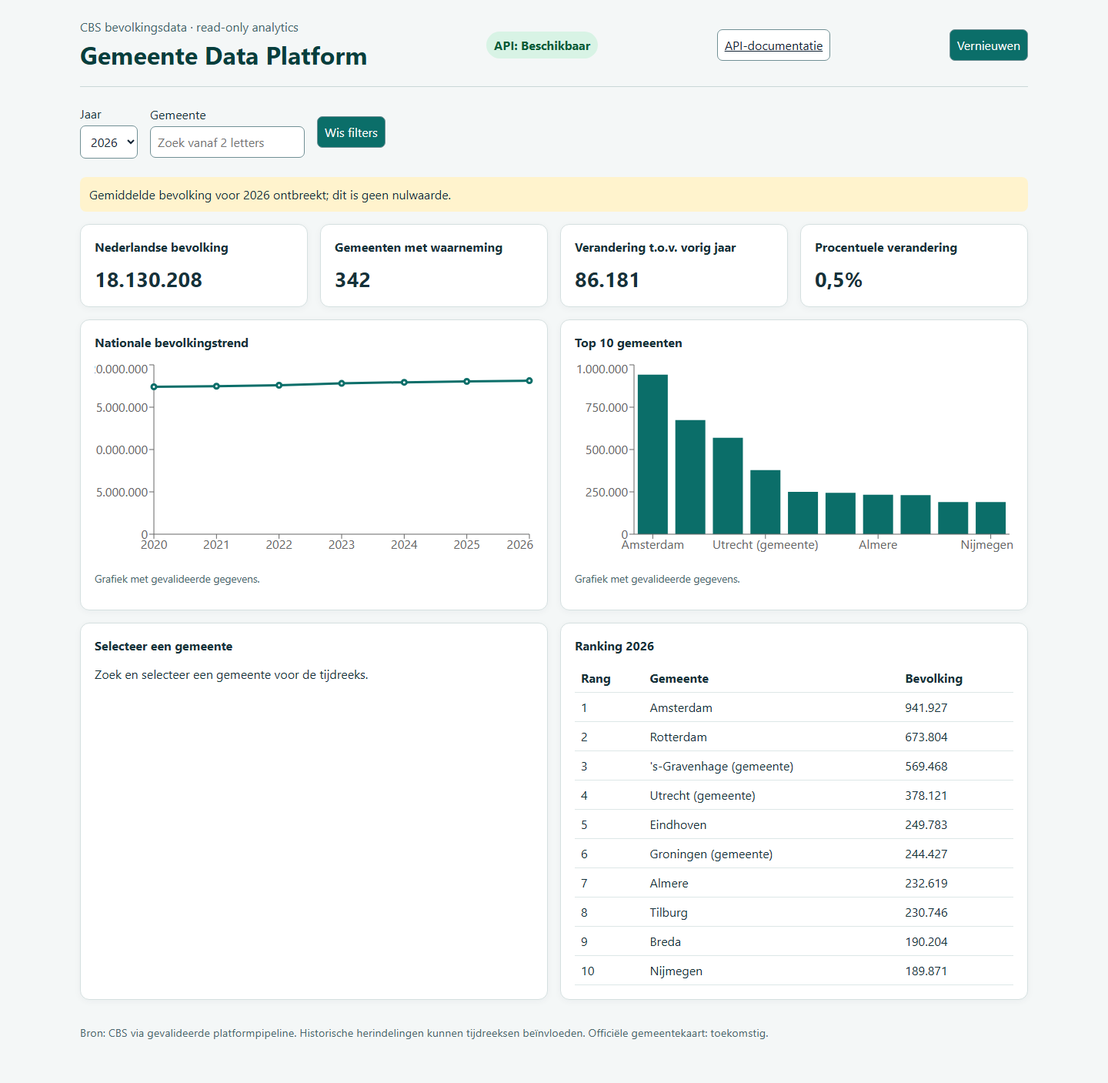
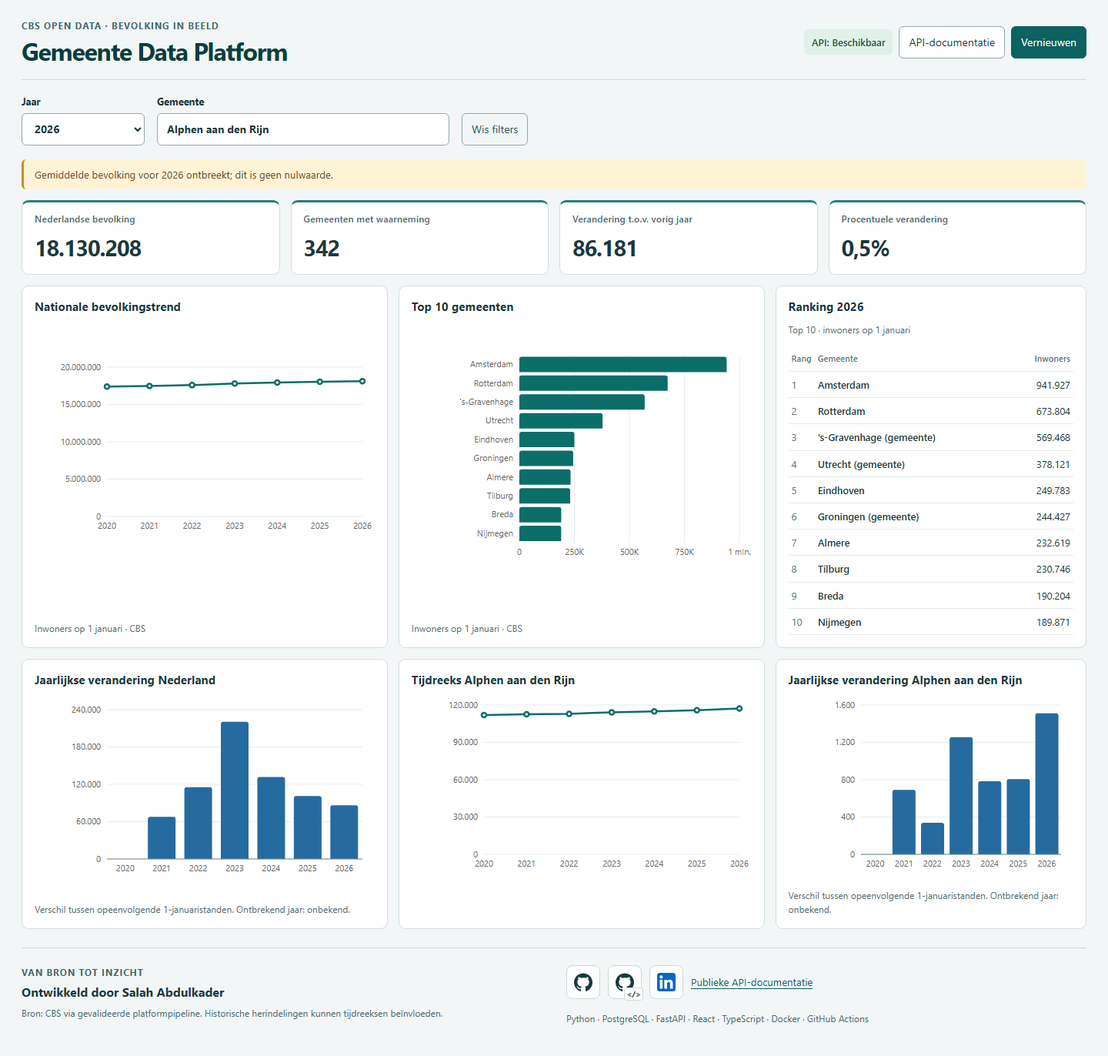
feat: improve dashboard layout and portfolio presentation

diff --git a/frontend/src/App.tsx b/frontend/src/App.tsx
@@ -1,8 +1,11 @@
 import {useEffect, useState} from "react";
-import {Bar, BarChart, Line, LineChart, ResponsiveContainer, Tooltip, XAxis, YAxis} from "recharts";
+import {Bar, BarChart, CartesianGrid, Line, LineChart, ReferenceLine, ResponsiveContainer, Tooltip, XAxis, YAxis} from "recharts";
 
 import {api, publicApiUrl} from "./api";
 import {number, percent} from "./format";
+import {annualChanges} from "./changes";
+import {LINKEDIN_URL} from "./portfolio";
+import {SocialLink} from "./SocialLink";
 import type {Municipality, National, Observation, Ranking, Year} from "./types";
 
 type Series = Pick<Observation, "year" | "population_january_1" | "population_change_absolute">[];
@@ -71,7 +74,7 @@ export function App() {
     const timer = setTimeout(() => {
       void api.municipalities(search, controller.signal)
         .then((response) => setItems(response.items))
-        .catch(() => setError("Zoeken naar gemeenten is mislukt."));
+        .catch(() => { if (!controller.signal.aborted) setError("Zoeken naar gemeenten is mislukt."); });
     }, 250);
     return () => { controller.abort(); clearTimeout(timer); };
   }, [search, selected]);
@@ -83,15 +86,18 @@ export function App() {
 
   return <main>
     <header>
-      <div><p className="eyebrow">CBS bevolkingsdata · read-only analytics</p><h1>Gemeente Data Platform</h1></div>
+      <div><p className="eyebrow">CBS Open Data · Bevolking in beeld</p><h1>Gemeente Data Platform</h1></div>
+      <div className="header-actions">
       <div className={`status ${status === "Beschikbaar" ? "ok" : "bad"}`} aria-live="polite">API: {status}</div>
-      <a href={publicApiUrl("/docs")}>API-documentatie</a><button onClick={() => void load()}>Vernieuwen</button>
+      <a className="button secondary" href={publicApiUrl("/docs")} target="_blank" rel="noopener noreferrer">API-documentatie</a><button onClick={() => void load()}>Vernieuwen</button>
+      </div>
     </header>
     <section className="filters" aria-label="Dashboardfilters">
-      <label>Jaar<select value={year} onChange={(event) => setYear(Number(event.target.value))}>{years.map((item) => <option key={item.year} value={item.year}>{item.year}</option>)}</select></label>
-      <label>Gemeente<input value={search} onChange={(event) => setSearch(event.target.value)} placeholder="Zoek vanaf 2 letters" /></label>
-      <button onClick={() => { setSearch(""); setSelected(null); setSeries([]); }}>Wis filters</button>
+      <label>Jaar<select aria-label="Jaar" value={year} onChange={(event) => setYear(Number(event.target.value))}>{years.map((item) => <option key={item.year} value={item.year}>{item.year}</option>)}</select></label>
+      <div className="municipality-filter"><label>Gemeente<input value={search} onChange={(event) => setSearch(event.target.value)} placeholder="Zoek vanaf 2 letters" autoComplete="off" /></label>
       {items.length > 0 && <ul className="results" aria-label="Zoekresultaten">{items.map((municipality) => <li key={municipality.municipality_code}><button onClick={() => void select(municipality)}>{municipality.municipality_name} <small>{municipality.municipality_code}</small></button></li>)}</ul>}
+      </div>
+      <button onClick={() => { setSearch(""); setSelected(null); setSeries([]); }}>Wis filters</button>
     </section>
     {error && <p role="alert" className="error">{error}</p>}
     {current?.average_population === null && <p className="warning">Gemiddelde bevolking voor {year} ontbreekt; dit is geen nulwaarde.</p>}
@@ -101,24 +107,31 @@ export function App() {
       <Card title="Verandering t.o.v. vorig jaar" value={number(change)} />
       <Card title="Procentuele verandering" value={previous && change !== null && previous.population_january_1 ? percent(String(change / previous.population_january_1 * 100)) : "Niet beschikbaar"} />
     </section>
-    <section className="grid">
+    <section className="grid" aria-label="Bevolkingsanalyses" aria-busy={status === "Laden"}>
       <Chart title="Nationale bevolkingstrend" data={national} dataKey="population_january_1" xKey="year" />
       <Chart title="Top 10 gemeenten" data={ranking} dataKey="population_january_1" xKey="municipality_name" bar />
-      <div className="card"><h2>{selected ? `Tijdreeks ${selected.municipality_name}` : "Selecteer een gemeente"}</h2>{series.length ? <Chart title="" data={series} dataKey="population_january_1" xKey="year" embedded /> : <p>Zoek en selecteer een gemeente voor de tijdreeks.</p>}</div>
       <RankingTable ranking={ranking} year={year} />
+      <Chart title="Jaarlijkse verandering Nederland" data={annualChanges(national)} dataKey="change" xKey="year" bar />
+      <div className="card"><h2>{selected ? `Tijdreeks ${selected.municipality_name}` : "Selecteer een gemeente"}</h2>{series.length ? <Chart title="" data={series} dataKey="population_january_1" xKey="year" embedded /> : <p>Zoek en selecteer een gemeente voor de tijdreeks.</p>}</div>
+      <Chart title={selected ? `Jaarlijkse verandering ${selected.municipality_name}` : "Jaarlijkse verandering gemeente"} data={annualChanges(series)} dataKey="change" xKey="year" bar />
     </section>
-    <footer>Bron: CBS via gevalideerde platformpipeline. Historische herindelingen kunnen tijdreeksen beïnvloeden. Officiële gemeentekaart: toekomstig.</footer>
+    <footer>
+      <div><p className="eyebrow">Van bron tot inzicht</p><h2>Ontwikkeld door Salah Abdulkader</h2><p className="provenance">Bron: CBS via gevalideerde platformpipeline. Historische herindelingen kunnen tijdreeksen beïnvloeden.</p></div>
+      <div><nav aria-label="Portfolio en documentatie"><SocialLink href="https://github.com/salahooo" label="GitHub-profiel Salah" brand="github" /><SocialLink href="https://github.com/salahooo/gemeente-data-platform" label="GitHub-repository" brand="github" repository /><SocialLink href={LINKEDIN_URL} label="LinkedIn Salah" brand="linkedin" /><a href={publicApiUrl("/docs")} target="_blank" rel="noopener noreferrer">Publieke API-documentatie</a></nav><p className="technology">Python · PostgreSQL · FastAPI · React · TypeScript · Docker · GitHub Actions</p></div>
+    </footer>
   </main>;
 }
 
 function Card({title, value}: {title: string; value: string}) { return <article className="card kpi"><h2>{title}</h2><strong>{value}</strong></article>; }
 
 function RankingTable({ranking, year}: {ranking: Ranking[]; year: number}) {
-  return <div className="card"><h2>Ranking {year}</h2><table><thead><tr><th>Rang</th><th>Gemeente</th><th>Bevolking</th></tr></thead><tbody>{ranking.map((item) => <tr key={item.municipality_code}><td>{item.rank}</td><td>{item.municipality_name}</td><td>{number(item.population_january_1)}</td></tr>)}</tbody></table></div>;
+  return <div className="card ranking"><h2>Ranking {year}</h2><p className="caption">Top 10 · inwoners op 1 januari</p>{ranking.length ? <table><caption className="visually-hidden">Gemeenten naar inwonertal in {year}</caption><thead><tr><th scope="col">Rang</th><th scope="col">Gemeente</th><th scope="col">Inwoners</th></tr></thead><tbody>{ranking.map((item) => <tr key={item.municipality_code}><td>{item.rank}</td><th scope="row">{item.municipality_name}</th><td>{number(item.population_january_1)}</td></tr>)}</tbody></table> : <p>Geen ranking beschikbaar.</p>}</div>;
 }
 
 function Chart({title, data, dataKey, xKey, bar = false, embedded = false}: {title: string; data: object[]; dataKey: string; xKey: string; bar?: boolean; embedded?: boolean}) {
   const Content = bar ? BarChart : LineChart;
-  const graph = <ResponsiveContainer width="100%" height={260}><Content data={data}><XAxis dataKey={xKey} interval="preserveStartEnd" /><YAxis width={72} tickFormatter={(value) => number(value)} /><Tooltip />{bar ? <Bar dataKey={dataKey} fill="#0b6e69" isAnimationActive={false} /> : <Line type="monotone" dataKey={dataKey} stroke="#0b6e69" strokeWidth={3} isAnimationActive={false} />}</Content></ResponsiveContainer>;
-  return embedded ? graph : <article className="card chart"><h2>{title}</h2>{graph}<p className="sr">Grafiek met gevalideerde gegevens.</p></article>;
+  const change = dataKey === "change";
+  const horizontal = xKey === "municipality_name";
+  const graph = data.length ? <div className="chart-frame" role="img" aria-label={title || "Bevolking geselecteerde gemeente"}><ResponsiveContainer width="100%" height={horizontal ? 290 : 240}><Content data={data} layout={horizontal ? "vertical" : "horizontal"} margin={{top: 12, right: 16, bottom: 4, left: 8}}><CartesianGrid stroke="#e5eded" vertical={horizontal} horizontal={!horizontal} /><XAxis type={horizontal ? "number" : "category"} dataKey={horizontal ? undefined : xKey} interval="preserveStartEnd" tick={{fontSize: 11}} tickLine={false} axisLine={false} tickFormatter={horizontal ? (value) => new Intl.NumberFormat("nl-NL", {notation: "compact"}).format(value) : undefined} /><YAxis type={horizontal ? "category" : "number"} dataKey={horizontal ? xKey : undefined} interval={horizontal ? 0 : undefined} width={horizontal ? 132 : 86} tick={{fontSize: 11}} tickLine={false} axisLine={false} tickFormatter={horizontal ? (value: string) => value.replace(" (gemeente)", "") : (value) => number(value)} /><Tooltip formatter={(value) => [value == null ? "Niet beschikbaar" : number(Number(value)), change ? "Verandering inwoners" : "Inwoners op 1 januari"]} />{change && <ReferenceLine y={0} stroke="#6d858a" />}{bar ? <Bar dataKey={dataKey} fill={change ? "#266ba0" : "#0b6e69"} maxBarSize={36} radius={[3, 3, 0, 0]} isAnimationActive={false} /> : <Line type="linear" dataKey={dataKey} stroke="#0b6e69" strokeWidth={2.5} dot={{r: 3}} connectNulls={false} isAnimationActive={false} />}</Content></ResponsiveContainer></div> : <p className="empty">{change ? "Selecteer een gemeente om de jaarlijkse verandering te bekijken." : "Nog geen gegevens beschikbaar."}</p>;
+  return embedded ? graph : <article className="card chart"><h2>{title}</h2>{graph}<p className="caption">{change ? "Verschil tussen opeenvolgende 1-januaristanden. Ontbrekend jaar: onbekend." : "Inwoners op 1 januari · CBS"}</p></article>;
 }

diff --git a/frontend/src/styles.css b/frontend/src/styles.css
@@ -1,1 +1,10 @@
-:root{font-family:Inter,system-ui,sans-serif;color:#15323a;background:#f4f7f7}*{box-sizing:border-box}body{margin:0}main{max-width:1280px;margin:auto;padding:24px}header,.filters{display:flex;gap:16px;align-items:center;flex-wrap:wrap}header{justify-content:space-between;border-bottom:1px solid #cad8d8;padding-bottom:20px}h1{margin:0;color:#063f3d}.eyebrow{color:#42656a;margin:0 0 4px}.status{padding:7px 10px;border-radius:999px;font-weight:700}.ok{background:#d8f3e5;color:#075c38}.bad{background:#fde2e2;color:#8c1d1d}button,a,select,input{font:inherit;padding:9px;border-radius:7px;border:1px solid #719095;background:white;color:#123}button{cursor:pointer;background:#0b6e69;color:white}.filters{position:relative;margin:24px 0}.filters label{display:grid;gap:5px}.results{position:absolute;z-index:2;top:70px;background:white;list-style:none;padding:8px;margin:0;border:1px solid #cad8d8;width:300px}.results button{background:white;color:#123;border:0;width:100%;text-align:left}.kpis,.grid{display:grid;gap:16px;grid-template-columns:repeat(4,1fr)}.grid{grid-template-columns:repeat(2,1fr);margin-top:16px}.card{background:white;border:1px solid #d5e0e0;border-radius:12px;padding:18px;box-shadow:0 2px 10px #18383a0b}.card h2{font-size:1rem;margin-top:0}.kpi strong{font-size:1.7rem}.warning,.error{padding:12px;border-radius:8px}.warning{background:#fff3cd}.error{background:#fde2e2}table{width:100%;border-collapse:collapse}th,td{text-align:left;padding:8px;border-bottom:1px solid #dde7e7}footer{margin:32px 0;color:#48666b;font-size:.9rem}.sr{font-size:.85rem;color:#48666b}@media(max-width:760px){main{padding:16px}.kpis,.grid{grid-template-columns:1fr}.kpi strong{font-size:1.45rem}header{align-items:flex-start}}
+:root{font-family:Inter,system-ui,sans-serif;color:#193940;background:#f2f6f6;line-height:1.5}*{box-sizing:border-box}body{margin:0}main{max-width:1440px;margin:auto;padding:24px 28px}header{display:flex;gap:20px;align-items:center;justify-content:space-between;border-bottom:1px solid #ccdada;padding-bottom:18px}h1{margin:0;color:#073f40;font-size:clamp(1.6rem,2.5vw,2rem);letter-spacing:-.04em;line-height:1.2}.eyebrow{color:#42656a;margin:0 0 5px;font-size:.75rem;font-weight:700;letter-spacing:.08em;text-transform:uppercase}.header-actions{display:flex;gap:8px;align-items:center;flex-wrap:wrap}.status{padding:7px 10px;border-radius:6px;font-size:.8rem;font-weight:600}.ok{background:#e0f1e9;color:#16583e}.bad{background:#fae9e7;color:#842d29}button,.button,select,input{font:inherit;font-size:.875rem;min-height:42px;padding:9px 12px;border-radius:6px;border:1px solid #91aaad;background:white;color:#193940}a{color:#095f65;text-underline-offset:3px}.button{text-decoration:none;display:inline-flex;align-items:center}button{cursor:pointer;background:#0b625f;color:white;border-color:#0b625f}button:hover{background:#084b49}a:hover{text-decoration:underline}button:focus-visible,a:focus-visible,input:focus-visible,select:focus-visible{outline:3px solid #277ab2;outline-offset:3px}input,select{width:100%;min-width:0}.filters{display:grid;grid-template-columns:160px minmax(200px,380px) auto;gap:16px;align-items:end;justify-content:start;margin:18px 0}.filters label{display:grid;gap:5px;font-size:.8rem;font-weight:650}.filters>button{background:transparent;color:#22555a;border-color:#91aaad}.municipality-filter{position:relative;min-width:0}.results{position:absolute;z-index:5;top:100%;left:0;right:0;background:white;list-style:none;padding:6px;margin:4px 0 0;border:1px solid #91aaad;border-radius:6px;box-shadow:0 8px 20px #19394022;max-height:320px;overflow:auto}.results button{background:white;color:#193940;border:0;width:100%;text-align:left}.results button:hover{background:#edf5f5}.results small{color:#527078}.kpis,.grid{display:grid;gap:14px;grid-template-columns:repeat(4,minmax(0,1fr))}.grid{grid-template-columns:repeat(2,minmax(0,1fr)) minmax(300px,.85fr);margin-top:14px}.card{min-width:0;background:white;border:1px solid #d1dede;border-radius:9px;padding:16px}.card h2{font-size:.95rem;line-height:1.4;margin:0 0 10px;font-weight:650}.kpi{border-top:3px solid #247e79;padding:13px 16px}.kpi h2{color:#49686e;font-size:.78rem;font-weight:550;margin-bottom:6px}.kpi strong{font-size:clamp(1.35rem,2vw,1.85rem);font-weight:650;letter-spacing:-.035em;font-variant-numeric:tabular-nums}.ranking{grid-column:3;grid-row:1 / span 3}.chart-frame{width:100%;min-width:0}.caption,.empty{font-size:.75rem;color:#526d74;margin:8px 0 0}.empty{min-height:210px;display:flex;align-items:center;justify-content:center;padding:24px;text-align:center;background:#f7fafa;border-radius:5px}.warning,.error{padding:10px 14px;border-radius:6px;font-size:.825rem;margin:0 0 14px}.warning{background:#fff3d6;color:#644b16;border-left:3px solid #c59020}.error{background:#fae9e7;color:#842d29}table{width:100%;border-collapse:collapse;font-size:.8rem;margin-top:14px}th,td{text-align:left;padding:12px 4px;border-bottom:1px solid #e4ecec}thead th{color:#526d74;font-size:.7rem;font-weight:600}tbody th{font-weight:500;overflow-wrap:anywhere}td:first-child{color:#607a80;width:32px}td:last-child,thead th:last-child{text-align:right;font-variant-numeric:tabular-nums;white-space:nowrap}footer{display:grid;grid-template-columns:1fr 1fr;gap:32px;margin:24px 0 0;padding:22px 0 10px;border-top:1px solid #ccdada;color:#49686e;font-size:.825rem}footer h2{font-size:1rem;color:#193940;margin:0 0 6px}footer p{margin:6px 0}footer nav{display:flex;flex-wrap:wrap;gap:10px 18px}footer nav span{color:#607078}.technology,.provenance{font-size:.75rem}.technology{padding-top:10px}.visually-hidden{position:absolute;width:1px;height:1px;padding:0;margin:-1px;overflow:hidden;clip-path:inset(50%);white-space:nowrap;border:0}@media(max-width:1100px){header{align-items:flex-start}.grid{grid-template-columns:repeat(2,minmax(0,1fr))}.ranking{grid-column:auto;grid-row:auto;order:1}.kpis{grid-template-columns:repeat(2,minmax(0,1fr))}}@media(max-width:640px){main{padding:18px 14px}header{flex-direction:column;gap:14px}.filters{grid-template-columns:1fr;justify-content:stretch;gap:10px}.grid{grid-template-columns:minmax(0,1fr)}.kpis{gap:10px}.kpi{padding:12px}.kpi h2{min-height:2.4em}.card{padding:14px}.header-actions{gap:6px}.header-actions .button,.header-actions button{font-size:.75rem}footer{grid-template-columns:1fr;gap:16px}.ranking{order:1}}@media(prefers-reduced-motion:reduce){*,*::before,*::after{scroll-behavior:auto!important;animation:none!important;transition:none!important}}
+:root .ranking{grid-row:auto}
+footer nav{align-items:center;gap:10px}
+.social-link{position:relative;display:inline-flex;align-items:center;justify-content:center;width:44px;height:44px;flex-shrink:0;border:1px solid #ccdada;border-radius:8px;background:#fff;color:#193940}
+.social-link:hover{background:#e5eeee;border-color:#73979b;text-decoration:none}
+.social-link.linkedin{color:#0a66c2}
+footer nav .repository-badge{position:absolute;right:-3px;bottom:-3px;background:#fff;border:1px solid #ccdada;border-radius:4px;color:#193940;font-size:10px;font-weight:700;line-height:15px;padding:0 2px}
+.ranking th,.ranking td{padding-top:7px;padding-bottom:7px}
+.chart{display:flex;flex-direction:column}.chart .chart-frame{margin:auto 0}.chart .caption{margin-top:auto;padding-top:10px}
+@media(max-width:1100px){:root .ranking{grid-row:auto}}

diff --git a/frontend/e2e/dashboard.spec.ts b/frontend/e2e/dashboard.spec.ts
@@ -5,11 +5,12 @@ test("dashboard werkt tegen de read-only ontwikkel-API", async ({page}) => {
   await expect(page.getByText("API: Beschikbaar")).toBeVisible();
   await expect(page.getByRole("heading", {name: "Gemeente Data Platform"})).toBeVisible();
   await expect(page.getByText(/Gemiddelde bevolking voor 2026 ontbreekt/)).toBeVisible();
-  await page.getByLabel("Gemeente").fill("Alp");
+  await page.getByRole("textbox", {name: "Gemeente", exact: true}).fill("Alp");
   await expect(page.getByRole("button", {name: /Alphen/}).first()).toBeVisible();
   await page.getByRole("button", {name: /Alphen/}).first().click();
   await expect(page.getByRole("heading", {name: /Tijdreeks Alphen/})).toBeVisible();
   await expect(page).toHaveURL(/municipality=/);
+  await expect(page.getByRole("heading", {name: /Jaarlijkse verandering Alphen/})).toBeVisible();
 });
 
 test("desktop- en mobielweergave zijn leesbaar", async ({browser}) => {
@@ -17,6 +18,20 @@ test("desktop- en mobielweergave zijn leesbaar", async ({browser}) => {
   const desktop = await desktopContext.newPage();
   await desktop.goto("/");
   await expect(desktop.getByText("API: Beschikbaar")).toBeVisible();
+  const controls = await Promise.all([desktop.getByLabel("Jaar", {exact: true}).boundingBox(), desktop.getByRole("textbox", {name: "Gemeente", exact: true}).boundingBox(), desktop.getByRole("button", {name: "Wis filters"}).boundingBox()]);
+  const bottoms = controls.map((box) => box!.y + box!.height);
+  expect(Math.max(...bottoms) - Math.min(...bottoms)).toBeLessThan(2);
+  await desktop.getByRole("textbox", {name: "Gemeente", exact: true}).fill("Alp");
+  await desktop.getByRole("button", {name: /Alphen/}).first().click();
+  await expect(desktop.getByRole("img", {name: /Jaarlijkse verandering Alphen/})).toBeVisible();
+  expect(await desktop.evaluate(() => document.documentElement.scrollWidth <= innerWidth)).toBe(true);
+  const nationalChart = desktop.getByRole("img", {name: "Nationale bevolkingstrend", exact: true});
+  const bounds = await nationalChart.boundingBox();
+  for (const label of await nationalChart.locator(".recharts-yAxis .recharts-cartesian-axis-tick-value").all()) {
+    const box = await label.boundingBox();
+    expect(box!.x).toBeGreaterThanOrEqual(bounds!.x);
+    expect(box!.x + box!.width).toBeLessThanOrEqual(bounds!.x + bounds!.width);
+  }
   await desktop.screenshot({path: "../docs/images/dashboard-desktop.png", fullPage: true});
   await desktopContext.close();
 
@@ -24,6 +39,30 @@ test("desktop- en mobielweergave zijn leesbaar", async ({browser}) => {
   const mobile = await mobileContext.newPage();
   await mobile.goto("/");
   await expect(mobile.getByText("API: Beschikbaar")).toBeVisible();
+  await mobile.getByRole("textbox", {name: "Gemeente", exact: true}).fill("Alp");
+  await mobile.getByRole("button", {name: /Alphen/}).first().click();
+  await expect(mobile.getByRole("img", {name: /Jaarlijkse verandering Alphen/})).toBeVisible();
+  expect(await mobile.evaluate(() => document.documentElement.scrollWidth <= innerWidth)).toBe(true);
   await mobile.screenshot({path: "../docs/images/dashboard-mobile.png", fullPage: true});
   await mobileContext.close();
+});
+
+test("tablet en smalle mobiel behouden structuur en keyboardfilters", async ({page}) => {
+  for (const width of [768, 320]) {
+    await page.setViewportSize({width, height: 1000});
+    await page.goto("/");
+    await expect(page.getByText("API: Beschikbaar")).toBeVisible();
+    expect(await page.evaluate(() => document.documentElement.scrollWidth <= innerWidth)).toBe(true);
+    const search = page.getByRole("textbox", {name: "Gemeente", exact: true});
+    await search.fill("Alp");
+    await expect(page.getByRole("button", {name: /Alphen/}).first()).toBeVisible();
+    await search.press("Tab");
+    await expect(page.getByRole("button", {name: /Alphen/}).first()).toBeFocused();
+    await page.keyboard.press("Enter");
+    await expect(page).toHaveURL(/municipality=/);
+    await page.getByRole("button", {name: "Wis filters"}).click();
+    await expect(search).toHaveValue("");
+    await expect(page).not.toHaveURL(/municipality=/);
+    await expect(page.getByRole("navigation", {name: "Portfolio en documentatie"})).toBeVisible();
+  }
 });

diff --git a/frontend/src/App.test.tsx b/frontend/src/App.test.tsx
@@ -26,6 +26,18 @@ beforeEach(() => {
 });
 
 describe("App", () => {
+  it("toont analyses en toegankelijke portfolio-links", async () => {
+    render(<App />);
+    await screen.findByText("API: Beschikbaar");
+    expect(screen.getByRole("region", {name: "Bevolkingsanalyses"})).toBeInTheDocument();
+    expect(screen.getByRole("heading", {name: "Jaarlijkse verandering Nederland"})).toBeInTheDocument();
+    expect(screen.getByRole("heading", {name: "Ontwikkeld door Salah Abdulkader"})).toBeInTheDocument();
+    expect(screen.getByRole("link", {name: "GitHub-profiel Salah"})).toHaveAttribute("href", "https://github.com/salahooo");
+    expect(screen.getByRole("link", {name: "GitHub-repository"})).toHaveAttribute("href", "https://github.com/salahooo/gemeente-data-platform");
+    expect(screen.getByRole("link", {name: "Publieke API-documentatie"})).toHaveAttribute("rel", "noopener noreferrer");
+    expect(screen.getByRole("link", {name: "LinkedIn Salah"})).toHaveAttribute("href", "https://www.linkedin.com/in/salah-abdulkader/");
+    expect(screen.getByRole("link", {name: "LinkedIn Salah"})).toHaveAttribute("rel", "noopener noreferrer");
+  });
   it("toont kerncijfers, null-waarschuwing en ranking uit de API", async () => {
     render(<App />);
     expect(await screen.findByText("API: Beschikbaar")).toBeInTheDocument();
@@ -61,7 +73,7 @@ describe("App", () => {
     fireEvent.click(await screen.findByRole("button", {name: /Voorbeeldstad/}));
     await act(async () => { await mockedApi.population.mock.results[0]?.value; });
     await screen.findByText("Tijdreeks Voorbeeldstad");
-    await waitFor(() => expect(document.querySelectorAll(".recharts-responsive-container")).toHaveLength(3));
+    await screen.findByRole("heading", {name: "Jaarlijkse verandering Voorbeeldstad"});
     const rankingCalls = mockedApi.ranking.mock.calls.length;
     fireEvent.click(screen.getByRole("button", {name: "Wis filters"}));
     await waitFor(() => expect(mockedApi.ranking.mock.calls.length).toBeGreaterThan(rankingCalls));

diff --git a/frontend/src/SocialLink.tsx b/frontend/src/SocialLink.tsx
@@ -1,0 +1,10 @@
+type Props = {href: string; label: string; brand: "github" | "linkedin"; repository?: boolean};
+
+export function SocialLink({href, label, brand, repository = false}: Props) {
+  return <a className={`social-link ${brand}`} href={href} aria-label={label} title={label} target="_blank" rel="noopener noreferrer">
+    <svg width="24" height="24" viewBox="0 0 24 24" fill="currentColor" aria-hidden="true" focusable="false">
+      {brand === "github" ? <path d="M12 .5a12 12 0 0 0-3.79 23.39c.6.11.82-.26.82-.58v-2.23c-3.34.73-4.04-1.42-4.04-1.42-.55-1.39-1.33-1.76-1.33-1.76-1.09-.75.08-.73.08-.73 1.2.09 1.84 1.23 1.84 1.23 1.07 1.83 2.81 1.3 3.49.99.11-.78.42-1.3.76-1.6-2.67-.3-5.47-1.34-5.47-5.93 0-1.31.47-2.38 1.23-3.22-.12-.3-.53-1.52.12-3.18 0 0 1.01-.32 3.3 1.23A11.5 11.5 0 0 1 12 6.28c1.02 0 2.04.14 3 .41 2.29-1.55 3.3-1.23 3.3-1.23.65 1.66.24 2.88.12 3.18.77.84 1.23 1.91 1.23 3.22 0 4.61-2.8 5.63-5.48 5.93.43.37.81 1.1.81 2.22v3.3c0 .32.22.69.83.57A12 12 0 0 0 12 .5Z" /> : <path d="M20.45 0H3.55A3.55 3.55 0 0 0 0 3.55v16.9A3.55 3.55 0 0 0 3.55 24h16.9A3.55 3.55 0 0 0 24 20.45V3.55A3.55 3.55 0 0 0 20.45 0ZM7.12 20.45H3.56V9h3.56ZM5.34 7.43a2.06 2.06 0 1 1 0-4.12 2.06 2.06 0 0 1 0 4.12ZM20.45 20.45H16.9v-5.57c0-1.33-.03-3.04-1.86-3.04-1.86 0-2.15 1.45-2.15 2.94v5.67H9.33V9h3.42v1.56h.05c.48-.9 1.64-1.85 3.37-1.85 3.6 0 4.28 2.37 4.28 5.46Z" />}
+    </svg>
+    {repository && <span className="repository-badge" aria-hidden="true">&lt;/&gt;</span>}
+  </a>;
+}

diff --git a/frontend/src/changes.test.ts b/frontend/src/changes.test.ts
@@ -1,0 +1,11 @@
+import {expect, it} from "vitest";
+import {annualChanges} from "./changes";
+
+it("berekent opeenvolgende januariwaarden, inclusief krimp en nul", () => {
+  expect(annualChanges([{year: 2023, population_january_1: 100}, {year: 2024, population_january_1: 90}, {year: 2025, population_january_1: 90}]).map((item) => item.change)).toEqual([null, -10, 0]);
+});
+it("houdt ontbrekende waarden en jaren onbekend en muteert de bron niet", () => {
+  const data = [{year: 2026, population_january_1: 200}, {year: 2023, population_january_1: null}, {year: 2024, population_january_1: 100}];
+  expect(annualChanges(data).map((item) => item.change)).toEqual([null, null, null]);
+  expect(data[0].year).toBe(2026);
+});

diff --git a/frontend/index.html b/frontend/index.html
@@ -1,1 +1,13 @@
-<div id="root"></div><script type="module" src="/src/main.tsx"></script>
+<!doctype html>
+<html lang="nl">
+  <head>
+    <meta charset="UTF-8" />
+    <meta name="viewport" content="width=device-width, initial-scale=1.0" />
+    <meta name="description" content="Verken CBS-bevolkingsdata voor Nederland en gemeenten in het Gemeente Data Platform van Salah Abdulkader." />
+    <title>Gemeente Data Platform | CBS bevolkingsdata</title>
+  </head>
+  <body>
+    <div id="root"></div>
+    <script type="module" src="/src/main.tsx"></script>
+  </body>
+</html>

diff --git a/frontend/src/changes.ts b/frontend/src/changes.ts
@@ -1,0 +1,7 @@
+export function annualChanges<T extends {year: number; population_january_1: number | null}>(data: T[]) {
+  return [...data].sort((a, b) => a.year - b.year).map((item) => {
+    const previous = data.find((candidate) => candidate.year === item.year - 1);
+    return {...item, change: item.population_january_1 !== null && previous?.population_january_1 != null
+      ? item.population_january_1 - previous.population_january_1 : null};
+  });
+}

diff --git a/frontend/src/portfolio.ts b/frontend/src/portfolio.ts
@@ -1,0 +1,1 @@
+export const LINKEDIN_URL = "https://www.linkedin.com/in/salah-abdulkader/";
